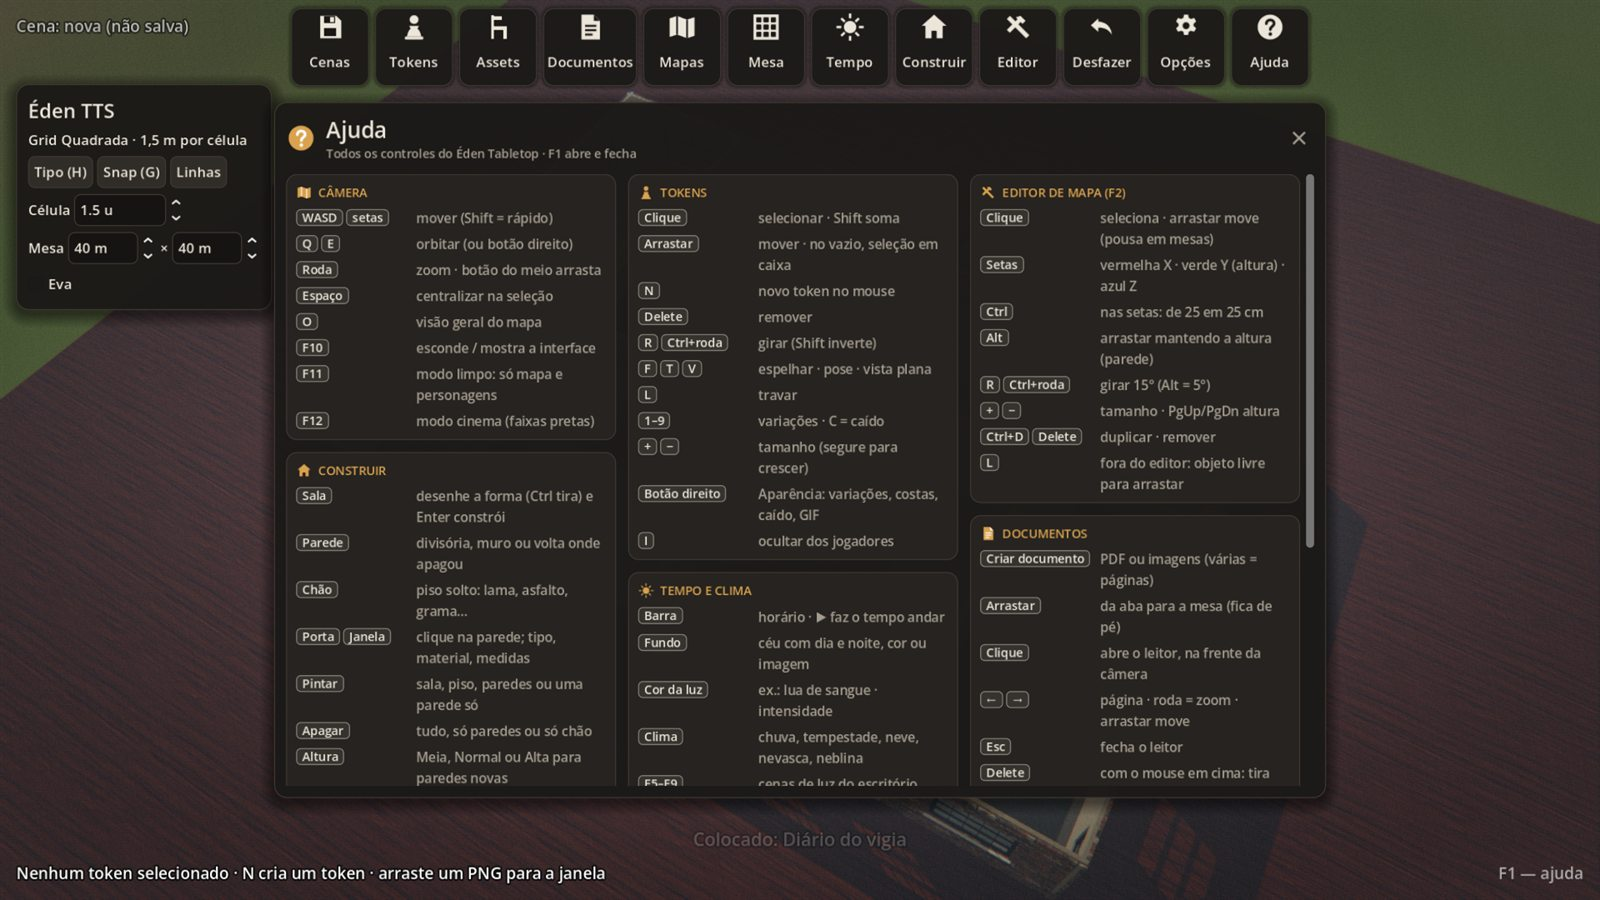
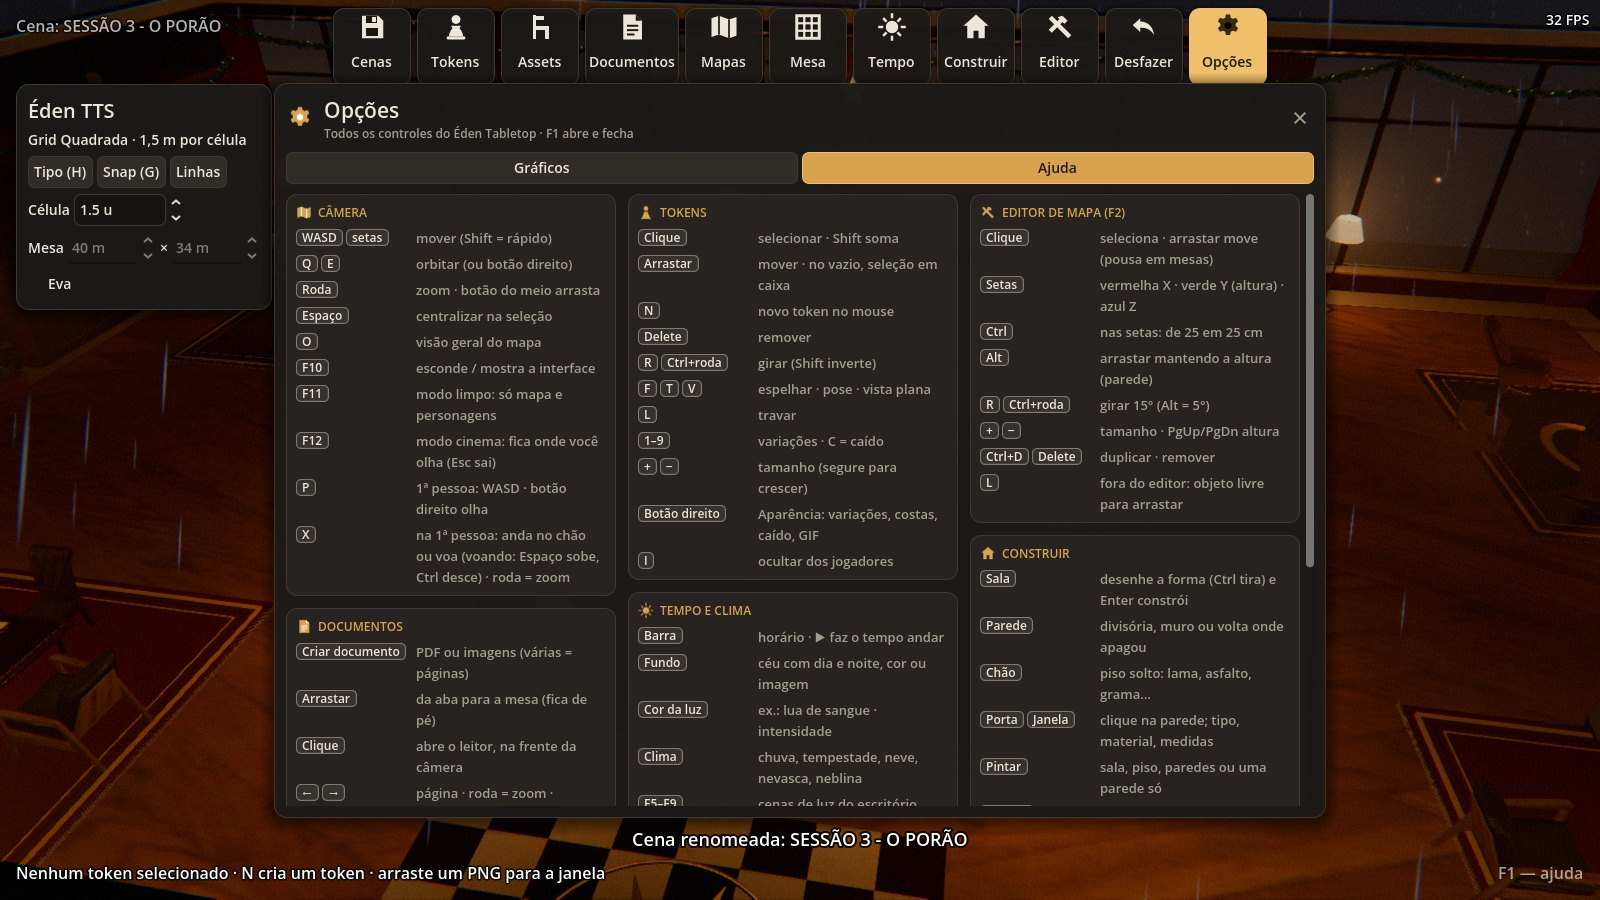
Add files via upload

diff --git a/index.html b/index.html
@@ -4,7 +4,7 @@
   <meta charset="utf-8">
   <meta name="viewport" content="width=device-width, initial-scale=1">
   <title>Éden Tabletop — sua mesa de RPG em 3D</title>
-  <meta name="description" content="Éden Tabletop: mesa virtual 3D para RPG. Construa casas, controle o tempo e o clima, leia documentos como nos jogos, jogue com tokens animados e ajuste os gráficos ao seu PC.">
+  <meta name="description" content="Éden Tabletop: mesa virtual 3D para RPG. Construa casas com subsolo e alçapões, mobílie com 132 objetos que acendem e mostram suas fotos, controle o tempo e o clima, leia documentos como nos jogos, jogue com tokens animados e ajuste os gráficos ao seu PC.">
   <link rel="icon" href="img/logo.png">
   <link rel="preconnect" href="https://fonts.googleapis.com">
   <link rel="preconnect" href="https://fonts.gstatic.com" crossorigin>
@@ -27,6 +27,8 @@
     <nav class="links" id="links">
       <a href="#recursos">Recursos</a>
       <a href="#construir">Construir</a>
+      <a href="#subsolo">Subsolo</a>
+      <a href="#objetos">Objetos</a>
       <a href="#tempo">Tempo</a>
       <a href="#laboratorio">Cenários</a>
       <a href="#camera">Câmera</a>
@@ -46,7 +48,7 @@
         <div class="hero-text">
           <p class="eyebrow reveal">Mesa virtual 3D para RPG</p>
           <h1 class="reveal">Sua mesa de RPG,<br>agora em <span class="rotator" id="rotator">três dimensões</span></h1>
-          <p class="lead reveal">Construa casas de vários andares com telhado, muros e portões, mude o dia para a noite com um arraste, faça chover lá fora, entre no mapa em 1ª pessoa e leia as pistas da aventura como nos grandes jogos de terror. Tudo numa mesa só, sem precisar saber modelar.</p>
+          <p class="lead reveal">Construa casas de vários andares com telhado, muros e portões, cave um subsolo com alçapão, mobílie com luzes que acendem no clique, mude o dia para a noite com um arraste, faça chover lá fora, entre no mapa em 1ª pessoa e leia as pistas da aventura como nos grandes jogos de terror. Tudo numa mesa só, sem precisar saber modelar.</p>
           <div class="cta reveal">
             <a href="https://github.com/oReversi" target="_blank" rel="noopener" class="btn btn-gold">
               <svg viewBox="0 0 24 24" aria-hidden="true"><path d="M12 3v12m0 0-5-5m5 5 5-5M4 19h16" /></svg>
@@ -78,7 +80,7 @@
     <!-- Números -->
     <section class="stats" id="numeros">
       <div class="stat reveal"><b data-count="14">0</b><span>tipos de janela que abrem</span></div>
-      <div class="stat reveal"><b data-count="7">0</b><span>estilos de casa prontos</span></div>
+      <div class="stat reveal"><b data-count="132">0</b><span>objetos feitos para o Éden</span></div>
       <div class="stat reveal"><b data-count="24" data-suffix="h">0</b><span>de ciclo dia e noite</span></div>
       <div class="stat reveal"><b data-count="500" data-suffix=" m">0</b><span>de mesa, do seu tamanho</span></div>
     </section>
@@ -171,6 +173,46 @@
           <h3>Cenários prontos</h3>
           <p>Comece de uma mesa vazia ou abra um cenário pronto, como o Laboratório secreto, com 18 setores e mais de 170 equipamentos.</p>
         </article>
+        <article class="card reveal" data-tilt>
+          <div class="icon"><svg viewBox="0 0 24 24"><path d="M2 9h20M5 9v12h14V9M9 13h6v8H9zM12 3v3M9 5l3-2 3 2"/></svg></div>
+          <h3>Subsolo</h3>
+          <p>Até três andares embaixo da mesa: porão, masmorra, bunker. A mesa some, a câmera desce e a terra aparece em volta.</p>
+        </article>
+        <article class="card reveal" data-tilt>
+          <div class="icon"><svg viewBox="0 0 24 24"><path d="M3 14h18v6H3zM5 14l3-7h8l3 7M12 7v7"/></svg></div>
+          <h3>Alçapões</h3>
+          <p>Tábuas, ferragens, aço, grade, pedra ou escondido no piso. Abre um buraco de verdade e quem estiver em cima cai.</p>
+        </article>
+        <article class="card reveal" data-tilt>
+          <div class="icon"><svg viewBox="0 0 24 24"><path d="M4 5h16v11H9l-5 4zM8 9h8M8 12h5"/></svg></div>
+          <h3>Status no Discord</h3>
+          <p>Seus amigos veem o que você está fazendo: criando o mapa, explorando em 1ª pessoa, lendo um documento, com cena, hora e clima.</p>
+        </article>
+        <article class="card reveal" data-tilt>
+          <div class="icon"><svg viewBox="0 0 24 24"><path d="M3 6h7l2 2h9v12H3zM3 10h18"/></svg></div>
+          <h3>Tudo em pastas</h3>
+          <p>Tokens, documentos e móveis em pastas que você cria e renomeia. As cenas salvas ganham miniatura e também podem ser renomeadas.</p>
+        </article>
+        <article class="card reveal" data-tilt>
+          <div class="icon"><svg viewBox="0 0 24 24"><path d="M4 20V10l8-6 8 6v10zM9 20v-6h6v6"/></svg></div>
+          <h3>Objetos Éden</h3>
+          <p>132 objetos feitos para o Éden, em 13 pastas: sala, quarto, cozinha, rua, veículos, quintal, fazenda, depósito, cemitério…</p>
+        </article>
+        <article class="card reveal" data-tilt>
+          <div class="icon"><svg viewBox="0 0 24 24"><path d="M9 18h6M10 21h4M12 3a6 6 0 0 0-3.5 10.9c.6.5 1 1.2 1 2.1h5c0-.9.4-1.6 1-2.1A6 6 0 0 0 12 3z"/></svg></div>
+          <h3>Luzes que acendem</h3>
+          <p>Abajures, lustres, postes, lampiões, velas e faróis de carro. Um clique acende, outro apaga, e a luz ilumina a sala de verdade.</p>
+        </article>
+        <article class="card reveal" data-tilt>
+          <div class="icon"><svg viewBox="0 0 24 24"><path d="M3 4h18v16H3zM3 16l5-5 4 4 3-3 6 6M15.5 8.5h.01"/></svg></div>
+          <h3>Suas fotos nos quadros</h3>
+          <p>Retratos, molduras e uma tela num cavalete: clique e escolha uma imagem do seu PC. Ela fica salva na cena.</p>
+        </article>
+        <article class="card reveal" data-tilt>
+          <div class="icon"><svg viewBox="0 0 24 24"><path d="M3 4h18v13H3zM8 21h8M12 17v4"/></svg></div>
+          <h3>Janela ou tela cheia</h3>
+          <p>Jogue em janela, em tela cheia ou numa janela sem bordas do tamanho da tela. O Éden lembra a sua escolha.</p>
+        </article>
       </div>
     </section>
 
@@ -190,21 +232,82 @@
           <li>12 telhados; cômodos vizinhos com o mesmo telhado viram uma peça só</li>
           <li>Escadas que sobem a altura certa e abrem o buraco no piso de cima, com guarda-corpo</li>
           <li>Muros com arame farpado, cacos de vidro ou cerca elétrica, e 8 tipos de portão que abrem</li>
+          <li>Subsolo de até três andares e alçapões que abrem um buraco no piso</li>
         </ul>
         <div class="tools">
-          <span>Sala</span><span>Parede</span><span>Muro</span><span>Portão</span><span>Chão</span><span>Pintar</span><span>Porta</span><span>Janela</span><span>Escada</span><span>Telhado</span><span>Apagar</span>
+          <span>Sala</span><span>Parede</span><span>Muro</span><span>Portão</span><span>Chão</span><span>Pintar</span><span>Porta</span><span>Janela</span><span>Escada</span><span>Alçapão</span><span>Telhado</span><span>Apagar</span>
         </div>
         <div class="chips" data-switch="build-shot">
           <button class="chip active" data-img="img/casa-telhados.jpg">Telhados</button>
           <button class="chip" data-img="img/casa-andares.jpg">Andares</button>
           <button class="chip" data-img="img/escadas.jpg">Escadas</button>
           <button class="chip" data-img="img/muros-portoes.jpg">Muros e portões</button>
+          <button class="chip" data-img="img/sobrado.jpg">Uma cidade</button>
           <button class="chip" data-img="img/construir.jpg">Planta pronta</button>
           <button class="chip" data-img="img/ui-construir.jpg">O painel</button>
         </div>
       </div>
       <div class="feature-media reveal-right">
         <div class="shot"><img id="build-shot" src="img/casa-telhados.jpg" alt="Casa em L com telhado de 4 águas, varanda, garagem, muro e portões"></div>
+      </div>
+    </section>
+
+    <!-- Destaque: Subsolo e alçapão -->
+    <section class="feature reverse" id="subsolo">
+      <div class="feature-text reveal-right">
+        <p class="eyebrow">Subsolo</p>
+        <h2>O que fica embaixo do chão</h2>
+        <p>Toda casa pode ter um segredo. Crie até três andares de subsolo, ligue com uma escada ou esconda a entrada num alçapão. Quando você desce, a mesa some, a câmera vai junto e o porão aparece cercado de terra.</p>
+        <ul class="checks">
+          <li>Até três subsolos embaixo da mesa: porão, masmorra, cripta, bunker</li>
+          <li>Paredes de terra, rocha bruta, tijolo velho, pedra de cripta ou concreto úmido</li>
+          <li>A escada que sobe do subsolo abre um buraco de verdade na mesa</li>
+          <li>Alçapões de tábuas, madeira com ferragens, aço, grade de ferro, laje de pedra ou escondidos no piso</li>
+          <li>Clique abre, Shift+clique tranca; aberto, quem estiver em cima cai para o andar de baixo</li>
+          <li>O token que desce leva a câmera junto, e a 1ª pessoa também anda lá embaixo</li>
+        </ul>
+        <div class="chips" data-switch="under-shot">
+          <button class="chip active" data-img="img/subsolo.jpg">Subsolo</button>
+          <button class="chip" data-img="img/alcapao.jpg">Alçapão aberto</button>
+          <button class="chip" data-img="img/alcapoes.jpg">Tipos de alçapão</button>
+        </div>
+      </div>
+      <div class="feature-media reveal-left">
+        <div class="shot"><img id="under-shot" src="img/subsolo.jpg" alt="Subsolo com paredes de terra e escada subindo para o térreo"></div>
+      </div>
+    </section>
+
+    <!-- Destaque: Objetos Éden -->
+    <section class="feature" id="objetos">
+      <div class="feature-text reveal-left">
+        <p class="eyebrow">Objetos Éden</p>
+        <h2>Uma casa cheia, e tudo funciona</h2>
+        <p>Uma pasta nova na aba Assets, com 132 objetos feitos para o Éden. Do sofá da sala ao orelhão da esquina, do carro na garagem à lápide no cemitério. E muitos deles fazem alguma coisa quando você clica.</p>
+        <ul class="checks">
+          <li>13 pastas: sala, quarto, cozinha, banheiro, escritório, decoração, iluminação, rua, veículos, quintal, fazenda, depósito e cemitério</li>
+          <li>Abajures, lustres, postes, lampiões e velas: clique acende, clique de novo apaga</li>
+          <li>Retratos e molduras com a imagem que você escolher do seu PC; Shift+clique tira</li>
+          <li>Cavalete com uma tela em branco esperando a sua pintura</li>
+          <li>Relógios que mostram a hora da mesa, TV que liga, ventilador que gira, semáforo que troca de cor</li>
+          <li>Carros com faróis que acendem, inclusive o carro abandonado</li>
+          <li>Aceso, apagado ou com a sua foto: tudo fica salvo na cena e volta com Ctrl+Z</li>
+        </ul>
+        <div class="chips" data-switch="eden-shot">
+          <button class="chip active" data-img="img/eden-sala.jpg">Sala</button>
+          <button class="chip" data-img="img/eden-quarto.jpg">Quarto</button>
+          <button class="chip" data-img="img/eden-cozinha.jpg">Cozinha</button>
+          <button class="chip" data-img="img/eden-luzes.jpg">Iluminação</button>
+          <button class="chip" data-img="img/eden-retrato.jpg">Retrato</button>
+          <button class="chip" data-img="img/eden-cavalete.jpg">Cavalete</button>
+          <button class="chip" data-img="img/eden-rua.jpg">Rua e cidade</button>
+          <button class="chip" data-img="img/eden-veiculos.jpg">Veículos</button>
+          <button class="chip" data-img="img/eden-quintal.jpg">Quintal</button>
+          <button class="chip" data-img="img/eden-fazenda.jpg">Fazenda</button>
+          <button class="chip" data-img="img/eden-cemiterio.jpg">Cemitério</button>
+        </div>
+      </div>
+      <div class="feature-media reveal-right">
+        <div class="shot"><img id="eden-shot" src="img/eden-sala.jpg" alt="Objetos Éden da sala de estar: sofás, poltrona, TV, estante, cortinas e tapetes"></div>
       </div>
     </section>
 
@@ -278,8 +381,8 @@
     </section>
 
     <!-- Cenário pronto: Laboratório -->
-    <section class="feature" id="laboratorio">
-      <div class="feature-text reveal-left">
+    <section class="feature reverse" id="laboratorio">
+      <div class="feature-text reveal-right">
         <p class="eyebrow">Cenários prontos</p>
         <h2>Laboratório secreto, pronto para jogar</h2>
         <p>O Complexo de Pesquisa Ômega foi planejado como uma instalação de verdade, com zonas de segurança que vão da recepção até as áreas restritas. Abra e jogue, ou mexa em tudo: as salas são do construtor e os equipamentos se movem pelo editor.</p>
@@ -291,7 +394,7 @@
           <li>Recepção, eclusa com scanner, segurança, refeitório e casa de máquinas</li>
         </ul>
       </div>
-      <div class="feature-media reveal-right">
+      <div class="feature-media reveal-left">
         <div class="shot stack">
           <img src="img/lab-geral.jpg" alt="Laboratório secreto visto de cima">
           <img class="float" src="img/lab-experimentos.jpg" alt="Cápsulas de contenção e bancadas do laboratório">
@@ -300,19 +403,23 @@
     </section>
 
     <!-- Câmera -->
-    <section class="feature reverse" id="camera">
-      <div class="feature-text reveal-right">
+    <section class="feature" id="camera">
+      <div class="feature-text reveal-left">
         <p class="eyebrow">Câmera</p>
         <h2>Entre no mapa em 1ª pessoa</h2>
         <p>Além da câmera tática de sempre, aperte <b>P</b> e a câmera desce até a altura dos olhos, no ponto que você estava olhando. Ótimo para mostrar aos jogadores o que os personagens veem e para gravar cenas.</p>
         <ul class="checks">
           <li>WASD anda, segurar o botão direito olha em volta</li>
-          <li>Espaço sobe, Ctrl desce, roda do mouse dá zoom como uma lente</li>
+          <li>Anda no chão de verdade: sobe e desce escadas degrau a degrau e cai pelo alçapão aberto</li>
+          <li>X alterna entre andar e voar; voando, Espaço sobe e Ctrl desce</li>
+          <li>Roda do mouse dá zoom como uma lente</li>
           <li>P de novo volta exatamente para onde a câmera tática estava</li>
           <li>Modo cinema (F12): faixas pretas, desfoque e movimento suave, parado onde você olha</li>
+          <li>Funciona também no subsolo: a câmera anda no piso do porão</li>
+          <li>Na câmera tática, dê zoom em cima de um buraco aberto e ela mergulha para o subsolo</li>
         </ul>
       </div>
-      <div class="feature-media reveal-left">
+      <div class="feature-media reveal-right">
         <div class="shot"><img src="img/primeira-pessoa.jpg" alt="Câmera em 1ª pessoa dentro do laboratório"></div>
       </div>
     </section>
@@ -329,9 +436,9 @@
           <button class="chip active" data-img="img/tempo.jpg" data-cap="Tempo: horário, fundo, cor da luz, cenas de iluminação e clima, num painel só.">Tempo</button>
           <button class="chip" data-img="img/ui-construir.jpg" data-cap="Construir: camadas dos andares, 11 ferramentas (sala, parede, muro, portão, escada, telhado…) e as opções de cada uma.">Construir</button>
           <button class="chip" data-img="img/ui-editor.jpg" data-cap="Editor: selecione um objeto, arraste as setas X, Y e Z, gire, incline, duplique ou salve na biblioteca.">Editor</button>
-          <button class="chip" data-img="img/biblioteca.jpg" data-cap="Biblioteca: tokens, móveis 3D, documentos e cenas, com pastas, favoritos e busca.">Biblioteca</button>
-          <button class="chip" data-img="img/ui-opcoes.jpg" data-cap="Opções: qualidade dos gráficos, limite de FPS, resolução 3D e economia de energia.">Opções</button>
-          <button class="chip" data-img="img/ui-ajuda.jpg" data-cap="Ajuda (F1): todos os controles separados por assunto, com as teclas desenhadas.">Ajuda</button>
+          <button class="chip" data-img="img/biblioteca.jpg" data-cap="Biblioteca: tokens, móveis 3D, documentos e cenas, com pastas, favoritos e busca. Os objetos Éden têm a pasta deles.">Biblioteca</button>
+          <button class="chip" data-img="img/ui-opcoes.jpg" data-cap="Opções: janela, tela cheia ou sem bordas, qualidade dos gráficos, limite de FPS, resolução 3D e economia de energia.">Opções</button>
+          <button class="chip" data-img="img/ui-ajuda.jpg" data-cap="Ajuda (F1): uma aba dentro de Opções, com todos os controles separados por assunto e as teclas desenhadas.">Ajuda</button>
         </div>
         <div class="shot"><img id="ui-shot" src="img/tempo.jpg" alt="Painel da interface do Éden Tabletop"></div>
         <p class="ui-cap" id="ui-cap">Tempo: horário, fundo, cor da luz, cenas de iluminação e clima, num painel só.</p>
@@ -367,7 +474,7 @@
       <div class="section-head reveal">
         <p class="eyebrow">Atalhos</p>
         <h2>Feito para jogar no teclado</h2>
-        <p>Os principais comandos. A lista completa está na Ajuda, dentro do app (F1).</p>
+        <p>Os principais comandos. A lista completa está na aba Ajuda das Opções, dentro do app (F1).</p>
       </div>
       <div class="keys">
         <div class="key-row reveal"><span><kbd>W</kbd><kbd>A</kbd><kbd>S</kbd><kbd>D</kbd></span>Mover a câmera</div>
@@ -378,7 +485,7 @@
         <div class="key-row reveal"><span><kbd>M</kbd></span>Régua</div>
         <div class="key-row reveal"><span><kbd>K</kbd></span>Marcador</div>
         <div class="key-row reveal"><span><kbd>P</kbd></span>Câmera em 1ª pessoa</div>
-        <div class="key-row reveal"><span><kbd>Espaço</kbd><kbd>Ctrl</kbd></span>Sobe / desce (1ª pessoa)</div>
+        <div class="key-row reveal"><span><kbd>X</kbd></span>Andar ou voar (1ª pessoa)</div>
         <div class="key-row reveal"><span><kbd>B</kbd></span>Biblioteca</div>
         <div class="key-row reveal"><span><kbd>F2</kbd></span>Editor de mapa</div>
         <div class="key-row reveal"><span><kbd>F5</kbd>–<kbd>F9</kbd></span>Cenas de iluminação</div>
@@ -399,6 +506,15 @@
       <div class="gallery">
         <figure class="reveal"><img src="img/lab-geral.jpg" alt="Laboratório secreto visto de cima"><figcaption>Laboratório secreto</figcaption></figure>
         <figure class="reveal"><img src="img/lab-controle.jpg" alt="Controle central com mesa holográfica"><figcaption>Controle central</figcaption></figure>
+        <figure class="reveal"><img src="img/eden-luzes.jpg" alt="Abajures, lustres e velas acesos"><figcaption>Luzes que acendem no clique</figcaption></figure>
+        <figure class="reveal"><img src="img/eden-carro.jpg" alt="Carro vermelho com os faróis acesos"><figcaption>Carro com faróis</figcaption></figure>
+        <figure class="reveal"><img src="img/eden-cavalete.jpg" alt="Cavalete com tela em branco"><figcaption>Uma tela para a sua imagem</figcaption></figure>
+        <figure class="reveal"><img src="img/eden-rua.jpg" alt="Poste, semáforo, hidrante, banco e lixeira"><figcaption>Coisas de rua</figcaption></figure>
+        <figure class="reveal"><img src="img/subsolo.jpg" alt="Subsolo com paredes de terra"><figcaption>Um porão embaixo da mesa</figcaption></figure>
+        <figure class="reveal"><img src="img/alcapao.jpg" alt="Alçapão aberto no piso"><figcaption>Alçapão aberto</figcaption></figure>
+        <figure class="reveal"><img src="img/cidade.jpg" alt="Mini cidade vista de cima"><figcaption>Uma cidade feita no Construir</figcaption></figure>
+        <figure class="reveal"><img src="img/casinhas.jpg" alt="Casas com muros de cobogó e portões"><figcaption>Casas, cobogós e portões</figcaption></figure>
+        <figure class="reveal"><img src="img/prisao.jpg" alt="Pavilhões de um campo de prisioneiros"><figcaption>Campo de prisioneiros</figcaption></figure>
         <figure class="reveal"><img src="img/primeira-pessoa.jpg" alt="Câmera em 1ª pessoa"><figcaption>Em 1ª pessoa</figcaption></figure>
         <figure class="reveal"><img src="img/casa-telhados.jpg" alt="Casa com telhados"><figcaption>Telhados que se juntam</figcaption></figure>
         <figure class="reveal"><img src="img/casa-andares.jpg" alt="Dois andares com escada"><figcaption>Dois andares e escada em U</figcaption></figure>
@@ -454,8 +570,10 @@
         <details class="reveal"><summary>Serve para qualquer sistema de RPG?</summary><p>Sim. O Éden é a mesa: grid quadrado ou hexagonal, régua, marcadores e tokens. As regras ficam com o seu grupo.</p></details>
         <details class="reveal"><summary>Posso usar meus próprios mapas e personagens?</summary><p>Pode. Tokens aceitam PNG, JPG e GIF animado; mapas aceitam imagens de qualquer tamanho e modelos 3D (.glb, .gltf, .fbx, .obj).</p></details>
         <details class="reveal"><summary>Preciso saber modelar em 3D?</summary><p>Não. O construtor levanta as paredes sozinho e a biblioteca traz móveis prontos. É desenhar, arrastar e jogar.</p></details>
-        <details class="reveal"><summary>Roda em computador mais fraco?</summary><p>Roda. Em Opções você escolhe entre Baixo, Médio, Alto e Ultra, limita o FPS e baixa a resolução 3D. O Éden também economiza quando a janela fica em segundo plano.</p></details>
+        <details class="reveal"><summary>Roda em computador mais fraco?</summary><p>Roda. Em Opções você escolhe entre Baixo, Médio, Alto e Ultra, limita o FPS e baixa a resolução 3D. O Éden também economiza quando a janela fica em segundo plano, e você pode jogar em janela, tela cheia ou sem bordas.</p></details>
         <details class="reveal"><summary>Dá para fazer prédios e casas de vários andares?</summary><p>Dá. Ponha laje no teto, crie o andar de cima e ligue com uma escada: ela abre o buraco no piso e os tokens sobem pelos degraus. Cada camada mostra só o andar em que você está jogando.</p></details>
+        <details class="reveal"><summary>Dá para fazer porão, masmorra ou passagem secreta?</summary><p>Dá. Crie até três andares de subsolo embaixo da mesa e ligue com uma escada ou com um alçapão, que pode até ficar escondido no piso. Quando o alçapão abre, quem estiver em cima cai para o andar de baixo.</p></details>
+        <details class="reveal"><summary>Dá para pôr as fotos dos meus personagens nos quadros?</summary><p>Dá. Os retratos, molduras e o cavalete da pasta Éden aceitam qualquer imagem do seu PC: clique no quadro e escolha. A imagem fica salva junto com a cena.</p></details>
         <details class="reveal"><summary>Dá para usar PDF de aventura pronta?</summary><p>Dá. Importe o PDF na aba Documentos: cada página vira uma página do leitor, e você coloca o documento na mesa quando os jogadores o encontrarem.</p></details>
         <details class="reveal"><summary>Dá para salvar a sessão?</summary><p>Sim. A cena inteira vai para um arquivo: salas, objetos, tokens, horário, clima e documentos na mesa.</p></details>
       </div>
